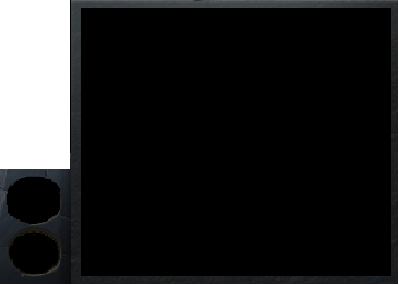
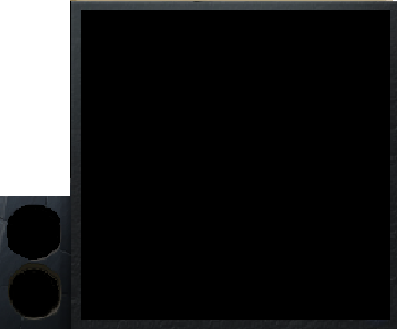
Пару кнопок на миникарте

Changed region(s): [[0.1508, 0.0, 0.995, 0.0561], [0.0, 0.9825, 0.995, 1.0], [0.0, 0.5895, 0.1809, 0.6175]]

diff --git a/classes_info.py b/classes_info.py
@@ -1,6 +1,6 @@
 import pygame
 from copy import deepcopy
-from groups_sprites import info_group, all_sprites
+from groups_sprites import info_group, button_group, all_sprites, players_group1, players_group2
 from sprites_images import images
 from classes_map import Map
 from constants import *
@@ -11,7 +11,11 @@ class MiniMap(pygame.sprite.Sprite):
         super().__init__(info_group, all_sprites)
         self.image = images['миникарта']
         self.rect = self.image.get_rect()
-        self.rect.bottomright = (width, height)
+        self.rect.bottomright = (width + 10, height + 10)
+
+        self.button_stats = ButtonStats(self)
+        self.button_wait = ButtonWait(self)
+
         self.size = 308, 308
         self.otstyp = 80, 8
         self.side = self.size[0] // map_width
@@ -32,23 +36,33 @@ class MiniMap(pygame.sprite.Sprite):
                 self.players = deepcopy(mapa.players)
         self.image = images['миникарта']
         self.rect = self.image.get_rect()
-        self.rect.bottomright = (width, height)
+        self.rect.bottomright = (width + 8, height + 10)
         for y in range(map_height):
             for x in range(map_width):
                 if HOD == 'first':
+                    if self.fon[y][x] == 7:
+                        pygame.draw.rect(self.image, (10, 69, 0), (x * self.side + 80, y * self.side + 8, self.side, self.side))
+                    elif self.fon[y][x] == 9:
+                        pygame.draw.rect(self.image, (0, 153, 0), (x * self.side + 80, y * self.side + 8, self.side, self.side))
+                    elif self.fon[y][x] == 8:
+                        pygame.draw.rect(self.image, (0, 103, 126), (x * self.side + 80, y * self.side + 8, self.side, self.side))
+                    elif self.fon[y][x] == 10:
+                        pygame.draw.rect(self.image, (100, 107, 99), (x * self.side + 80, y * self.side + 8, self.side, self.side))
+
                     if self.tyman1[y][x] != 0:
                         pygame.draw.rect(self.image, (200, 200, 200), (x * self.side + 80, y * self.side + 8, self.side, self.side))
                         continue
                     if self.players[y][x] in (1, 2, 3):
-                        pygame.draw.rect(self.image, (83, 55, 122), (x * self.side + 80, y * self.side + 8, self.side, self.side))
+                        pygame.draw.circle(self.image, (83, 55, 122), (x * self.side + 80 + self.side // 2, y * self.side + 8 + self.side // 2), self.side // 2)
                         continue
                     if self.players[y][x] in (4, 5, 6):
-                        pygame.draw.rect(self.image, (175, 43, 30), (x * self.side + 80, y * self.side + 8, self.side, self.side))
+                        pygame.draw.circle(self.image, (175, 43, 30), (x * self.side + 80 + self.side // 2, y * self.side + 8 + self.side // 2), self.side // 2)
                         continue
                     if self.neytral[y][x]:
-                        pygame.draw.rect(self.image, (236, 124, 38), (x * self.side + 80, y * self.side + 8, self.side, self.side))
+                        pygame.draw.circle(self.image, (236, 124, 38), (x * self.side + 80 + self.side // 2, y * self.side + 8 + self.side // 2), self.side // 2)
                         continue
 
+                elif HOD == 'second':
                     if self.fon[y][x] == 7:
                         pygame.draw.rect(self.image, (10, 69, 0), (x * self.side + 80, y * self.side + 8, self.side, self.side))
                     elif self.fon[y][x] == 9:
@@ -57,26 +71,41 @@ class MiniMap(pygame.sprite.Sprite):
                         pygame.draw.rect(self.image, (0, 103, 126), (x * self.side + 80, y * self.side + 8, self.side, self.side))
                     elif self.fon[y][x] == 10:
                         pygame.draw.rect(self.image, (100, 107, 99), (x * self.side + 80, y * self.side + 8, self.side, self.side))
-                elif HOD == 'second':
+
                     if self.tyman2[y][x] != 0:
                         pygame.draw.rect(self.image, (200, 200, 200), (x * self.side + 80, y * self.side + 8, self.side, self.side))
                         continue
                     if self.players[y][x] in (4, 5, 6):
-                        pygame.draw.rect(self.image, (83, 55, 122), (x * self.side + 80, y * self.side + 8, self.side, self.side))
+                        pygame.draw.circle(self.image, (83, 55, 122), (x * self.side + 80 + self.side // 2, y * self.side + 8 + self.side // 2), self.side // 2)
                         continue
                     if self.players[y][x] in (1, 2, 3):
-                        pygame.draw.rect(self.image, (175, 43, 30), (x * self.side + 80, y * self.side + 8, self.side, self.side))
+                        pygame.draw.circle(self.image, (175, 43, 30), (x * self.side + 80 + self.side // 2, y * self.side + 8 + self.side // 2), self.side // 2)
                         continue
                     if self.neytral[y][x]:
-                        pygame.draw.rect(self.image, (236, 124, 38), (x * self.side + 80, y * self.side + 8, self.side, self.side))
+                        pygame.draw.circle(self.image, (236, 124, 38),(x * self.side + 80 + self.side // 2, y * self.side + 8 + self.side // 2), self.side // 2)
                         continue
 
-                    if self.fon[y][x] == 7:
-                        pygame.draw.rect(self.image, (10, 69, 0), (x * self.side + 80, y * self.side + 8, self.side, self.side))
-                    elif self.fon[y][x] == 9:
-                        pygame.draw.rect(self.image, (0, 153, 0), (x * self.side + 80, y * self.side + 8, self.side, self.side))
-                    elif self.fon[y][x] == 8:
-                        pygame.draw.rect(self.image, (0, 103, 126), (x * self.side + 80, y * self.side + 8, self.side, self.side))
-                    elif self.fon[y][x] == 10:
-                        pygame.draw.rect(self.image, (100, 107, 99), (x * self.side + 80, y * self.side + 8, self.side, self.side))
 
+class ButtonStats(pygame.sprite.Sprite):
+    def __init__(self, mimimapa):
+        super().__init__(button_group, all_sprites)
+        self.image = images['кнопка характеристик']
+        self.rect = self.image.get_rect()
+        self.rect.topleft = (mimimapa.rect.x + 3, mimimapa.rect.y + 202)
+
+
+class ButtonWait(pygame.sprite.Sprite):
+    def __init__(self, mimimapa):
+        super().__init__(button_group, all_sprites)
+        self.image = images['кнопка ожидания']
+        self.rect = self.image.get_rect()
+        self.rect.topleft = (mimimapa.rect.x + 3, mimimapa.rect.y + 260)
+
+    def click(self, hod, icon):
+        numb = icon + 1 + (3 if hod == 'second' else 0)
+        for sprite in players_group1:
+            if sprite.tip == numb:
+                sprite.steps = 0
+        for sprite in players_group2:
+            if sprite.tip == numb:
+                sprite.steps = 0

diff --git a/main.py b/main.py
@@ -6,7 +6,7 @@ from classes_camera_cursor_pause_timer import MyCursor, Camera
 from classes_icons_and_select import PlayerIcon
 from classes_info import MiniMap
 from groups_sprites import all_sprites, tiles_group, players_group1, players_group2, neytral_group, tyman_group1, \
-    tyman_group2, system_group
+    tyman_group2, system_group, info_group, button_group
 from constants import *
 
 pygame.init()
@@ -17,6 +17,7 @@ clock = pygame.time.Clock()
 pygame.event.set_grab(True)
 HOD = ''
 select_icon = 0
+font = pygame.font.Font(None, 36)
 
 
 def new_hod(player, camera):
@@ -121,6 +122,18 @@ def move(player, hero, pos_x, pos_y, mapa, camera):
 
 def main():
     global HOD
+    HOD = ''
+    all_sprites.empty()
+    tiles_group.empty()
+    players_group1.empty()
+    players_group2.empty()
+    neytral_group.empty()
+    tyman_group1.empty()
+    tyman_group2.empty()
+    info_group.empty()
+    system_group.empty()
+    button_group.empty()
+
     map_game = Map()
     mimmap_game = MiniMap(map_game)
     camera = Camera(screen.get_width(), screen.get_height(), 30 * tile_width, 30 * tile_height)
@@ -152,7 +165,13 @@ def main():
             if event.type == pygame.MOUSEBUTTONDOWN:
                 event_mousedown = event
             if event.type == pygame.MOUSEBUTTONDOWN and event.button == 1:
-                if update_icon(event, camera, HOD) is False:
+                if update_icon(event, camera, HOD) is True:
+                    pass
+                elif mimmap_game.button_stats.rect.collidepoint(event.pos):
+                    pass
+                elif mimmap_game.button_wait.rect.collidepoint(event.pos):
+                    mimmap_game.button_wait.click(HOD, select_icon)
+                else:
                     # Получение координат мыши
                     tile_size = 100
                     mouse_x, mouse_y = pygame.mouse.get_pos()
@@ -173,6 +192,9 @@ def main():
         map_game.draw_map(screen, HOD)
         for icon in player_icon:
             icon.draw(select_icon)
+        fps_now = str(int(clock.get_fps()))
+        fps_text = font.render("FPS: " + fps_now, True, (255, 255, 255), (0, 0, 0))
+        screen.blit(fps_text, (10, 10))
 
         clock.tick(fps)
         pygame.display.update()

diff --git a/classes_map.py b/classes_map.py
@@ -3,7 +3,7 @@ import csv
 from classes_fon_and_tyman import Tile, Tyman1, Tyman2
 from classes_heroes_and_neytral import Players1, Players2, Neytral
 from groups_sprites import all_sprites, tiles_group, players_group1, players_group2, neytral_group, tyman_group1, \
-    tyman_group2, system_group, info_group
+    tyman_group2, system_group, info_group, button_group
 from constants import *
 
 
@@ -47,6 +47,7 @@ class Map:
             neytral_group.draw(screen)
             tyman_group1.draw(screen)
             info_group.draw(screen)
+            button_group.draw(screen)
             system_group.draw(screen)
         elif HOD == 'second':
             tiles_group.draw(screen)
@@ -55,4 +56,5 @@ class Map:
             neytral_group.draw(screen)
             tyman_group2.draw(screen)
             info_group.draw(screen)
+            button_group.draw(screen)
             system_group.draw(screen)

diff --git a/classes_camera_cursor_pause_timer.py b/classes_camera_cursor_pause_timer.py
@@ -42,8 +42,8 @@ class Camera:
             self.camera_y += 10
 
     def focus_target(self, target):
-        target_x = max(0, min(self.map_width - self.screen_width // 2, target.pos[0] * tile_width) - self.screen_width // 2 + tile_width // 2)
-        target_y = max(0, min(self.map_height - self.screen_height // 2, target.pos[1] * tile_height) - self.screen_height // 2 + tile_height // 2)
+        target_x = max(0, min(self.map_width - self.screen_width // 2 - tile_width // 2, target.pos[0] * tile_width - tile_width // 2) - self.screen_width // 2 + tile_width // 2)
+        target_y = max(0, min(self.map_height - self.screen_height // 2 - tile_height // 2, target.pos[1] * tile_height - tile_height // 2) - self.screen_height // 2 + tile_height // 2)
         self.camera_x = target_x
         self.camera_y = target_y
 

diff --git a/sprites_images.py b/sprites_images.py
@@ -37,5 +37,7 @@ images = {
     'иконка 1': load_image('Иконка 1.jpg'),
     'иконка 2': load_image('Иконка 2.jpg'),
     'иконка 3': load_image('Иконка 3.jpg'),
-    'миникарта': load_image('Миникарта.png', 'data', -1)
+    'миникарта': load_image('Миникарта.png', 'data', -1),
+    'кнопка характеристик': load_image('Кнопка характеристик.png', 'data', -1),
+    'кнопка ожидания': load_image('Кнопка ожидания.png', 'data', -1),
 }

diff --git a/groups_sprites.py b/groups_sprites.py
@@ -9,3 +9,4 @@ tyman_group1 = pygame.sprite.Group()
 tyman_group2 = pygame.sprite.Group()
 info_group = pygame.sprite.Group()
 system_group = pygame.sprite.Group()
+button_group = pygame.sprite.Group()
